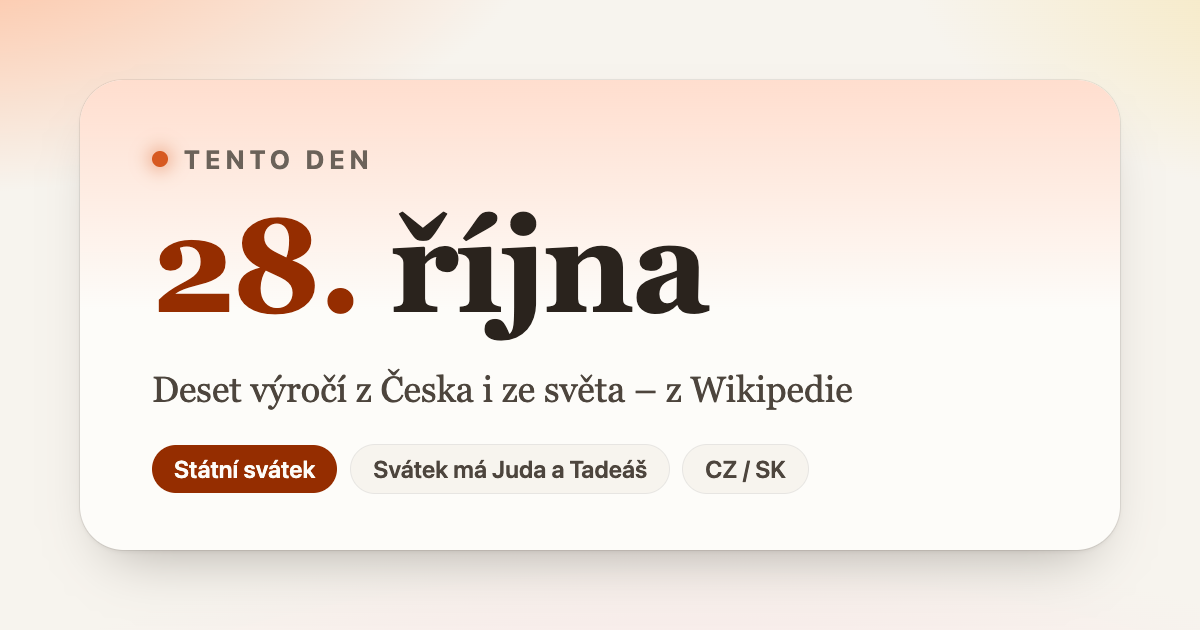
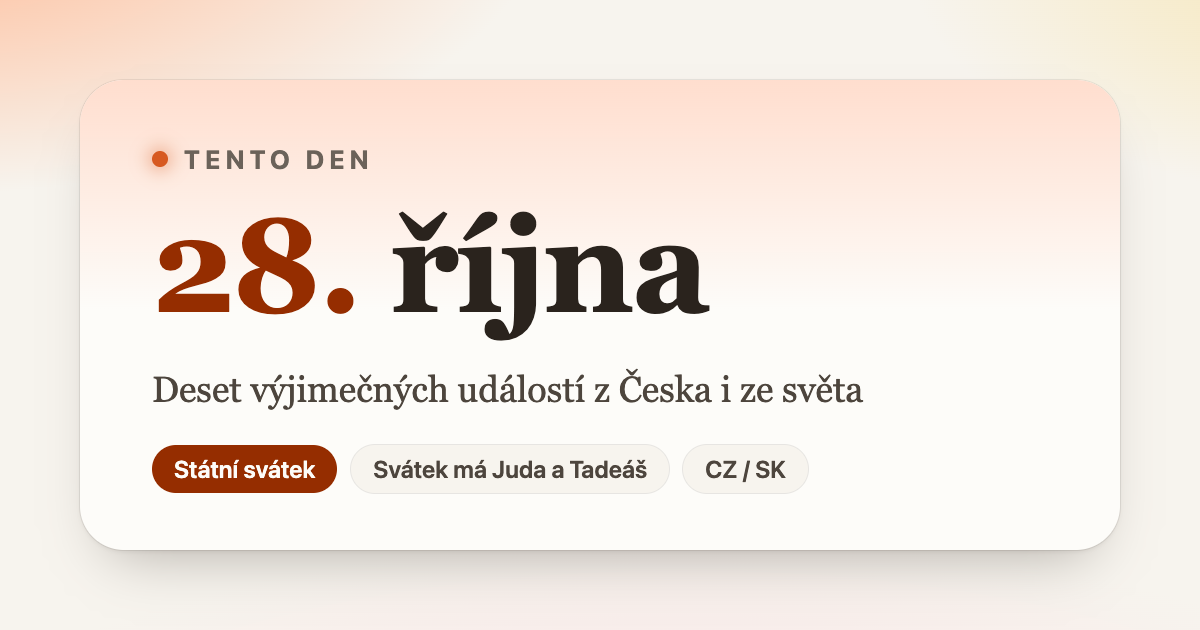
Popiš aplikaci jako deset výjimečných událostí
Podtitulek dne, meta a Open Graph popisy, manifest, první věta README
a náhledový obrázek: „deset výjimečných událostí z Česka i ze světa“,
bez „z Wikipedie“ – zdroj uvádí atribuce u každé karty a jmenin.

Changed region(s): [[0.2467, 0.573, 0.74, 0.6635]]

diff --git a/frontend/index.html b/frontend/index.html
@@ -3,21 +3,21 @@
   <head>
     <meta charset="UTF-8" />
     <meta name="viewport" content="width=device-width, initial-scale=1, viewport-fit=cover" />
-    <meta name="description" content="Každý den deset výročí z Wikipedie – z Česka i ze světa – se jmeninami (CZ/SK) a státními svátky." />
+    <meta name="description" content="Každý den deset výjimečných událostí z Česka i ze světa – se jmeninami (CZ/SK) a státními svátky." />
     <!-- link previews (WhatsApp, iMessage…): absolute URLs of the public demo -->
     <meta property="og:type" content="website" />
     <meta property="og:locale" content="cs_CZ" />
     <meta property="og:site_name" content="Tento den" />
     <meta property="og:title" content="Tento den" />
-    <meta property="og:description" content="Každý den deset výročí z Wikipedie – z Česka i ze světa – se jmeninami (CZ/SK) a státními svátky." />
+    <meta property="og:description" content="Každý den deset výjimečných událostí z Česka i ze světa – se jmeninami (CZ/SK) a státními svátky." />
     <meta property="og:url" content="https://petrstastny1.github.io/tento-den/" />
     <meta property="og:image" content="https://petrstastny1.github.io/tento-den/og-image.png" />
     <meta property="og:image:width" content="1200" />
     <meta property="og:image:height" content="630" />
-    <meta property="og:image:alt" content="Tento den – 28. října: deset výročí z Česka i ze světa, státní svátek a jmeniny" />
+    <meta property="og:image:alt" content="Tento den – 28. října: deset výjimečných událostí z Česka i ze světa, státní svátek a jmeniny" />
     <meta name="twitter:card" content="summary_large_image" />
     <meta name="twitter:title" content="Tento den" />
-    <meta name="twitter:description" content="Každý den deset výročí z Wikipedie – z Česka i ze světa – se jmeninami (CZ/SK) a státními svátky." />
+    <meta name="twitter:description" content="Každý den deset výjimečných událostí z Česka i ze světa – se jmeninami (CZ/SK) a státními svátky." />
     <meta name="twitter:image" content="https://petrstastny1.github.io/tento-den/og-image.png" />
     <meta name="theme-color" content="#f7f4ee" media="(prefers-color-scheme: light)" />
     <meta name="theme-color" content="#16130f" media="(prefers-color-scheme: dark)" />

diff --git a/frontend/src/meta.test.js b/frontend/src/meta.test.js
@@ -8,9 +8,10 @@ const manifest = JSON.parse(readFileSync(new URL('../public/manifest.webmanifest
 const meta = (attribute, name) => new RegExp(`<meta ${attribute}="${name}" content="([^"]+)"`).exec(index)?.[1]
 
 describe('metadata', () => {
-  it('popis i náhled odkazu odpovídají aktuálnímu stavu – deset výročí, jmeniny, státní svátky', () => {
+  it('popis i náhled odkazu odpovídají aktuálnímu stavu – deset výjimečných událostí, jmeniny, státní svátky', () => {
     for (const text of [meta('name', 'description'), meta('property', 'og:description'), meta('name', 'twitter:description'), manifest.description]) {
-      expect(text).toContain('deset výročí')
+      expect(text).toContain('deset výjimečných událostí')
+      expect(text).not.toMatch(/Wikipedi/) // the source is credited on every card, not in the description
       expect(text).toMatch(/jmenin/)
       expect(text).toMatch(/státními svátky/)
       expect(text).not.toMatch(/pět|five/i)
@@ -24,6 +25,7 @@ describe('metadata', () => {
     expect(meta('property', 'og:url')).toBe('https://petrstastny1.github.io/tento-den/')
     expect(meta('property', 'og:image')).toBe('https://petrstastny1.github.io/tento-den/og-image.png')
     expect([meta('property', 'og:image:width'), meta('property', 'og:image:height')]).toEqual(['1200', '630'])
+    expect(meta('property', 'og:image:alt')).toContain('deset výjimečných událostí')
     const png = readFileSync(new URL('../public/og-image.png', import.meta.url))
     expect([png.readUInt32BE(16), png.readUInt32BE(20)]).toEqual([1200, 630]) // PNG IHDR width and height
   })

diff --git a/frontend/src/screens/DayScreen.jsx b/frontend/src/screens/DayScreen.jsx
@@ -70,7 +70,7 @@ function Day({ date, favorites, nameDayCountry }) {
             number={number}
             word={word}
             kicker={isToday ? 'Dnes · Tento den' : 'Tento den'}
-            tagline="Deset výročí, která stojí za to znát – z Česka i ze světa."
+            tagline="Deset výjimečných událostí, které stojí za to znát – z Česka i ze světa."
             nameDays={<NameDays nameDays={state.status === 'ready' ? state.nameDays : null} country={country} onCountry={setCountry} />}
           />
           <DayNav date={date} />

diff --git a/README.md b/README.md
@@ -1,6 +1,6 @@
 # Tento den
 
-Každý den deset zajímavých výročí z Wikipedie – z Česka i ze světa – se jmeninami (CZ/SK) a státními svátky. Mobilní webová aplikace
+Každý den deset výjimečných událostí z Česka i ze světa – se jmeninami (CZ/SK) a státními svátky. Mobilní webová aplikace
 (PWA, hlavně iPhone v Safari) s **REST API v PHP 8.3 / Nette 3.2** a **frontendem v Reactu**.
 
 > **Živé demo:** <https://petrstastny1.github.io/tento-den/> *(statická verze bez backendu, nasazuje GitHub Actions)*
